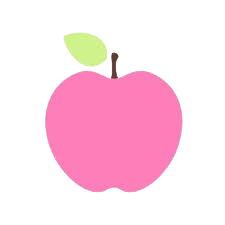
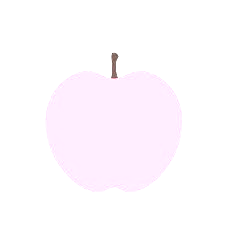
color

Changed region(s): [[0.1867, 0.1244, 0.84, 0.8711]]

diff --git a/script.js b/script.js
@@ -87,7 +87,7 @@ fetch('adjusted_movement.json')
     console.error('There was a problem with your fetch operation:', error);
   });
 
-let door_AI_color = 0xf0e442;  //yellow //0xcc79a7; // pink color in hex
+let door_AI_color = 0xf0e442;  //yellow 
 const door_human_color = 0xE66100; // orange color in hex
 
 // const grid_width = 900;
@@ -101,10 +101,18 @@ let players = {
     },
     'AI': {
         id: 1,
-        color:  0xf0e442,  //yellow //0xcc79a7  // pink
+        color:  0xf0e442,  //yellow 
         tokensCollected: 0
     }
 };
+
+let roundOneColor = 0x7F5FBF; //purple
+
+let roundTwoColor = 0xcc79a7; //pink
+
+let roundThreeColor = 0x0D77B7; //blue
+
+let roundFourColor = 0xf0e442; //yellow
 
 let studyId = 'ExpThreeTest';
 
@@ -135,49 +143,17 @@ let assignedConditionTemp = await blockRandomization(studyId, TRAPSEQUENCE, numC
 let assignedCondition = assignedConditionTemp[0];
 
 // //A1A1A1A2, A1A1A2A2, A1A2A2A2, A2A2A2A2
-// if (assignedCondition === 0){
-//     trapTimeForEachRound = {
-//         0: { human: 20, AI: 200, Replay: 777},
-//         1: { human: 20, AI: 200,  Replay: 777},
-//         2: { human: 20, AI: 200, Replay: 777 },
-//         3: { human: 200, AI: 777, Replay: 20 },
-//       };
-// }else if( assignedCondition === 1){
-//     trapTimeForEachRound = {
-//         0: { human: 20, AI: 200, Replay: 777 },
-//         1: { human: 20, AI: 200, Replay: 777 },
-//         2: { human: 200, AI: 777, Replay: 20 },
-//         3: { human: 200, AI: 777, Replay: 20 },
-//       };
-
-// }else if( assignedCondition === 2){
-//     trapTimeForEachRound = {
-//         0: { human: 20, AI: 200, Replay: 777 },
-//         1: { human: 200, AI: 777, Replay: 20 },
-//         2: { human: 200, AI: 777, Replay: 20 },
-//         3: { human: 200, AI: 777, Replay: 20 },
-//       };
-// }else if( assignedCondition === 3){
-//     trapTimeForEachRound = {
-//         0: { human: 200, AI: 777, Replay: 20 },
-//         1: { human: 200, AI: 777, Replay: 20 },
-//         2: { human: 200, AI: 777, Replay: 20 },
-//         3: { human: 200, AI: 777, Replay: 20 },
-//       };
-// }
-
-//A1A1A1A2, A1A1A2A2, A1A2A2A2, A2A2A2A2
 if (assignedCondition === 0){
     trapTimeForEachRound = {
-        0: { human: 20, AI: 200, Replay: 777 },
-        1: { human: 200, AI: 777, Replay: 20 },
-        2: { human: 200, AI: 777, Replay: 20 },
+        0: { human: 20, AI: 200, Replay: 777},
+        1: { human: 20, AI: 200,  Replay: 777},
+        2: { human: 20, AI: 200, Replay: 777 },
         3: { human: 200, AI: 777, Replay: 20 },
       };
 }else if( assignedCondition === 1){
     trapTimeForEachRound = {
         0: { human: 20, AI: 200, Replay: 777 },
-        1: { human: 200, AI: 777, Replay: 20 },
+        1: { human: 20, AI: 200, Replay: 777 },
         2: { human: 200, AI: 777, Replay: 20 },
         3: { human: 200, AI: 777, Replay: 20 },
       };
@@ -191,12 +167,44 @@ if (assignedCondition === 0){
       };
 }else if( assignedCondition === 3){
     trapTimeForEachRound = {
-        0: { human: 20, AI: 200, Replay: 777 },
+        0: { human: 200, AI: 777, Replay: 20 },
         1: { human: 200, AI: 777, Replay: 20 },
         2: { human: 200, AI: 777, Replay: 20 },
         3: { human: 200, AI: 777, Replay: 20 },
       };
 }
+
+//A1A1A1A2, A1A1A2A2, A1A2A2A2, A2A2A2A2
+// if (assignedCondition === 0){
+//     trapTimeForEachRound = {
+//         0: { human: 20, AI: 200, Replay: 777 },
+//         1: { human: 200, AI: 777, Replay: 20 },
+//         2: { human: 200, AI: 777, Replay: 20 },
+//         3: { human: 200, AI: 777, Replay: 20 },
+//       };
+// }else if( assignedCondition === 1){
+//     trapTimeForEachRound = {
+//         0: { human: 20, AI: 200, Replay: 777 },
+//         1: { human: 200, AI: 777, Replay: 20 },
+//         2: { human: 200, AI: 777, Replay: 20 },
+//         3: { human: 200, AI: 777, Replay: 20 },
+//       };
+
+// }else if( assignedCondition === 2){
+//     trapTimeForEachRound = {
+//         0: { human: 20, AI: 200, Replay: 777 },
+//         1: { human: 200, AI: 777, Replay: 20 },
+//         2: { human: 200, AI: 777, Replay: 20 },
+//         3: { human: 200, AI: 777, Replay: 20 },
+//       };
+// }else if( assignedCondition === 3){
+//     trapTimeForEachRound = {
+//         0: { human: 20, AI: 200, Replay: 777 },
+//         1: { human: 200, AI: 777, Replay: 20 },
+//         2: { human: 200, AI: 777, Replay: 20 },
+//         3: { human: 200, AI: 777, Replay: 20 },
+//       };
+// }
 
 function findAndSelectRandomPath(PathData, start, end) {
     // Filter betwenGridData to find paths that match the given start and end
@@ -706,7 +714,6 @@ function arraysEqual(arr1, arr2) {
 }
 
 
-
 function crossesDoor(start, end, playerID) {
     let validAdjustedDoors;
     if (playerID === "Human") {
@@ -1014,11 +1021,11 @@ function updateGameTime(scene) {
       }
 
       if(isReplay === "AI"){
-        playerName =  "a yellow robot player";
-        tokenType = "yellow butterflies";
+        playerName =  "a robot player";
+        tokenType = "butterflies";
       }else{
-        playerName =  "a pink human player";
-        tokenType = "pink apples";
+        playerName =  "a human player";
+        tokenType = "apples";
       }
 
       scene.messageText = scene.add.text(scene.sys.game.config.width / 2, scene.sys.game.config.height / 2, `We will now start round ${currentRound} of 4.\nPlease use the arrow keys to move your orange player. \nYou are playing with ${playerName} who collects ${tokenType} this round.`, specificSizeStyle).setOrigin(0.5, 0.5).setDepth(1001);
@@ -1131,11 +1138,25 @@ function proceedToNextRound(scene) {
     }
 
     if(isReplay === "replay"){
-        door_AI_color = 0xcc79a7;
-        players['AI'].color = 0xcc79a7;
-        player2.setTexture('replayPlayer').setScale(0.17 * dpr).setDepth(1);
-        scene.player2Ghost.setTexture('replayPlayer').setScale(0.17 * dpr).setDepth(1);
+        // door_AI_color = 0xcc79a7;
+        // players['AI'].color = 0xcc79a7;
+        player2.setTexture('player1').setScale(0.04 * dpr).setDepth(1);
+        scene.player2Ghost.setTexture('player1').setScale(0.04 * dpr).setDepth(1);
     }
+
+    if(currentRound === 2){
+        door_AI_color = roundTwoColor;
+        players['AI'].color = roundTwoColor;
+    }else if(currentRound === 3){
+        door_AI_color = roundThreeColor;
+        players['AI'].color = roundThreeColor;
+    }else if(currentRound === 4){
+        door_AI_color = roundFourColor;
+        players['AI'].color = roundFourColor;
+    }
+
+    player2.setTint(players['AI'].color);
+    scene.player2Ghost.setTint(players['AI'].color);
   
     aiStartX =  14;
     aiStartY = 12;
@@ -1455,7 +1476,7 @@ let player1, player2;
 
 function preload() {
     this.load.image('player1', 'colorHuman.png'); 
-    this.load.image('player2', 'yellowRobot.png');
+    this.load.image('player2', 'outlineRobot.png');
 
     this.load.image('star', 'star.png');
     this.load.image('flower', 'flower.png');
@@ -1586,7 +1607,7 @@ function create() {
     // this.overlay.setVisible(false);
     this.messageText = this.add.text(this.sys.game.config.width / 2, this.sys.game.config.height / 2, '', specificSizeStyle).setOrigin(0.5, 0.5).setDepth(1001);
 
-    this.highlight = this.add.rectangle(0, 0, cellWidth * 3, cellHeight * 3, 0x009292, 0.5);
+    this.highlight = this.add.rectangle(0, 0, cellWidth * 3, cellHeight * 3, 0x39FF14, 0.5);
     this.highlight.setVisible(false);
 
     // Initialize a blink timer
@@ -1974,19 +1995,19 @@ function handleMovement(player, dx, dy, playerID, scene) {
 
     let doorTrappedPlayer;
 
-    if (playerID == "Human" && isReplay === "AI"){
-        doorColor = 0xd55e00;
-        doorColorOther = 0xf0e442;
-    }else if(playerID == "AI" && isReplay === "AI"){
-        doorColor = 0xf0e442;
-        doorColorOther = 0xd55e00;
-    }else if(playerID == "Human" && isReplay === "replay"){
-        doorColor = 0xd55e00;
-        doorColorOther = 0xcc79a7;
-    }else if(playerID == "AI" && isReplay === "replay"){
-        doorColor = 0xcc79a7;
-        doorColorOther = 0xd55e00;
-    }
+    // if (playerID == "Human" && isReplay === "AI"){
+    //     doorColor = 0xd55e00;
+    //     doorColorOther = 0xf0e442;
+    // }else if(playerID == "AI" && isReplay === "AI"){
+    //     doorColor = 0xf0e442;
+    //     doorColorOther = 0xd55e00;
+    // }else if(playerID == "Human" && isReplay === "replay"){
+    //     doorColor = 0xd55e00;
+    //     doorColorOther = 0xcc79a7;
+    // }else if(playerID == "AI" && isReplay === "replay"){
+    //     doorColor = 0xcc79a7;
+    //     doorColorOther = 0xd55e00;
+    // }
 
     // First, check for forbidden moves. If forbidden, we immediately return.
     if (isMoveForbidden(currentGridX, currentGridY, nextGridX, nextGridY)) {
@@ -2039,13 +2060,8 @@ function handleMovement(player, dx, dy, playerID, scene) {
 
                 if (playerID === "Human" && currentTime >= player1TrapTimeStart && playerOneTrapped === false && playerTwoTrapped !== true) {
 
-                    // Change both doors to player2's colo
-                    
-                    if(isReplay === "AI"){
-                        doorColor = 0xf0e442;
-                    }else{
-                        doorColor = 0xcc79a7;
-                    }
+                    // Change both doors to player2's color
+                    doorColor = players['AI'].color;
 
                     console.log("Human trapped");
 
@@ -2101,7 +2117,7 @@ function handleMovement(player, dx, dy, playerID, scene) {
 
                     playerTwoTrapped = true;
                     // Change both doors to player1's color
-                    doorColor = 0xd55e00;
+                    doorColor = players['Human'].color;
                     console.log("AI trapped");
 
                     trappedAIStartGrid = startGrid;
@@ -2856,6 +2872,7 @@ function initializeDemo(scene) {
     player1.setCollideWorldBounds(true); 
     player1.name = 'Human'; 
     player1.data = players['Human']; 
+    player1.setTint(players['Human'].color);
 
     scene.physics.world.debugGraphic = scene.add.graphics().setAlpha(0);
 
@@ -2891,11 +2908,11 @@ if(trapTimeForEachRound[currentRound - 1].AI === 777){
 }
 
 if(isReplay === "AI"){
-    playerName =  "a yellow robot player";
-    tokenType = "yellow butterflies";
+    playerName =  "a robot player";
+    tokenType = "butterflies";
 }else{
-    playerName =  "a pink human player";
-    tokenType = "pink apple";
+    playerName =  "a human player";
+    tokenType = "apple";
 }
 
 let instructions = [
@@ -2943,6 +2960,7 @@ function displayNextInstruction(scene) {
         player2.setCollideWorldBounds(true); 
         player2.name = 'AI'; 
         player2.data = players['AI'];
+        player2.setTint(players['AI'].color);
 
         easystar = new EasyStar.js();
         easystar.setGrid(initialGrid);
@@ -3051,21 +3069,29 @@ function completeSetup(scene) {
         player1.y = scene.sys.game.config.height - cellHeight / 2;
     }
 
-    if(isReplay === "replay"){
-        door_AI_color = 0xcc79a7;
-        players['AI'].color = 0xcc79a7;
+    door_AI_color = roundOneColor;
+    players['AI'].color = roundOneColor;
 
-        doorAICoords = [];
-        doorAIadjusted = [];
-        doorHumanCoords = [];
-        doorHumanadjusted = [];
-        allDoors = [];
-        scene.doorSprites = [];
-        calculateDoors();
-        allDoors.forEach(door => drawDoor(door, scene));
-        player2.setTexture('replayPlayer').setScale(0.17 * dpr).setDepth(1);
-        scene.player2Ghost.setTexture('replayPlayer').setScale(0.17 * dpr).setDepth(1);
+    if(isReplay === "replay"){
+        // door_AI_color = 0xcc79a7;
+        // players['AI'].color = 0xcc79a7;
+        player2.setTexture('player1').setScale(0.04 * dpr).setDepth(1).setTint(players['AI'].color);
+        scene.player2Ghost.setTexture('player1').setScale(0.04 * dpr).setDepth(1).setTint(players['AI'].color);
     }
+
+    doorAICoords = [];
+    doorAIadjusted = [];
+    doorHumanCoords = [];
+    doorHumanadjusted = [];
+    allDoors = [];
+    scene.doorSprites = [];
+    calculateDoors();
+    allDoors.forEach(door => drawDoor(door, scene));
+
+    player1.setTint(players['Human'].color);
+    player2.setTint(players['AI'].color);
+    scene.player1Ghost.setTint(players['Human'].color);
+    scene.player2Ghost.setTint(players['AI'].color);
 
   
     aiStartX =  14;
